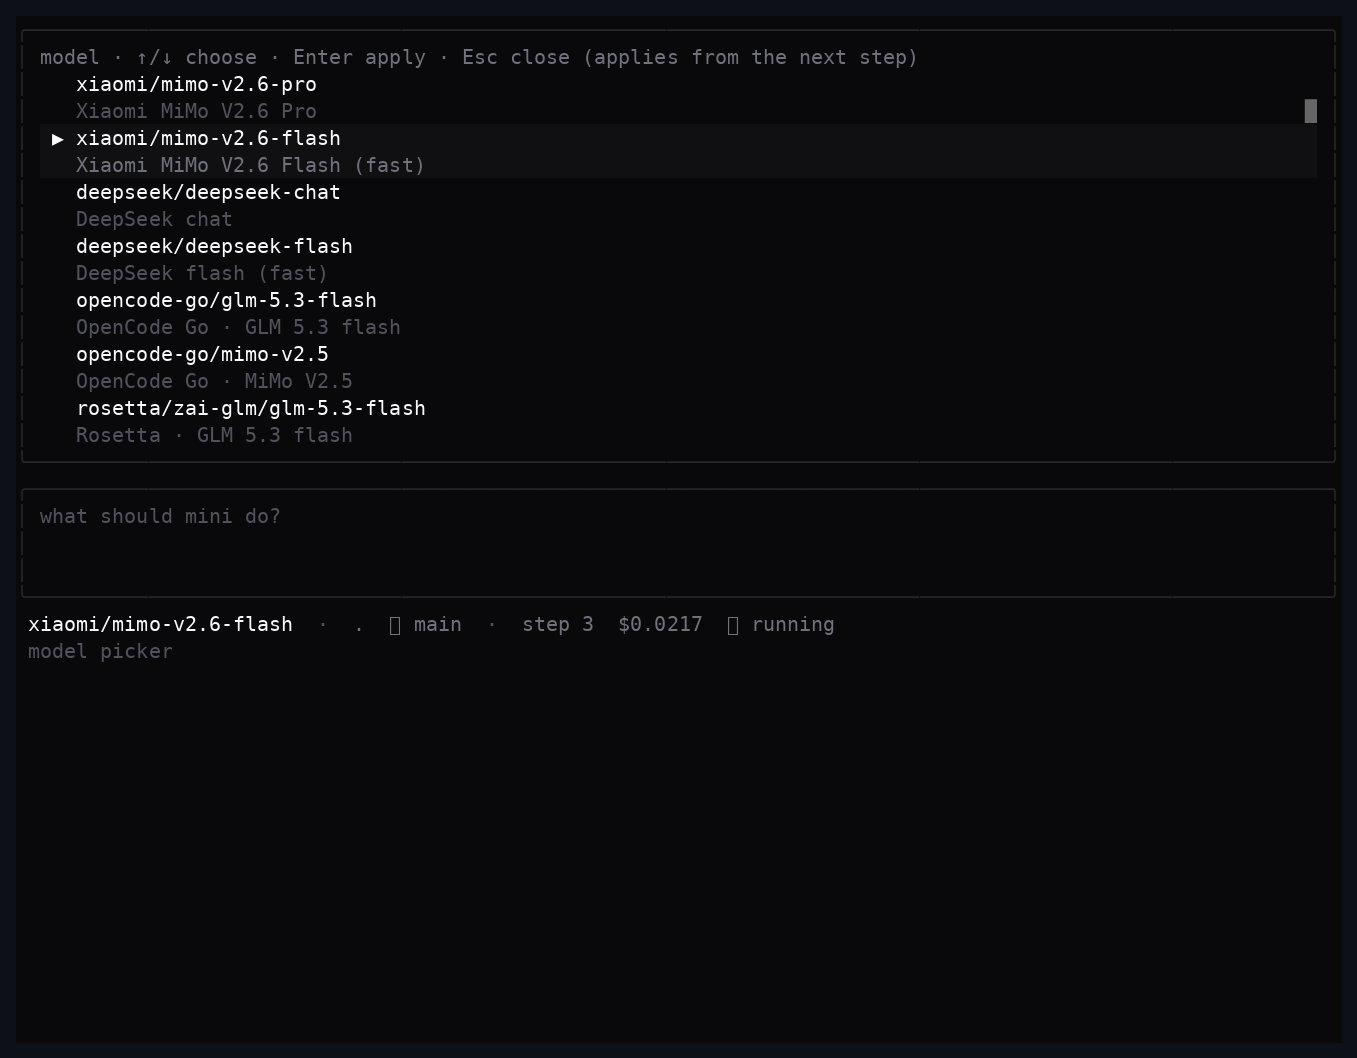
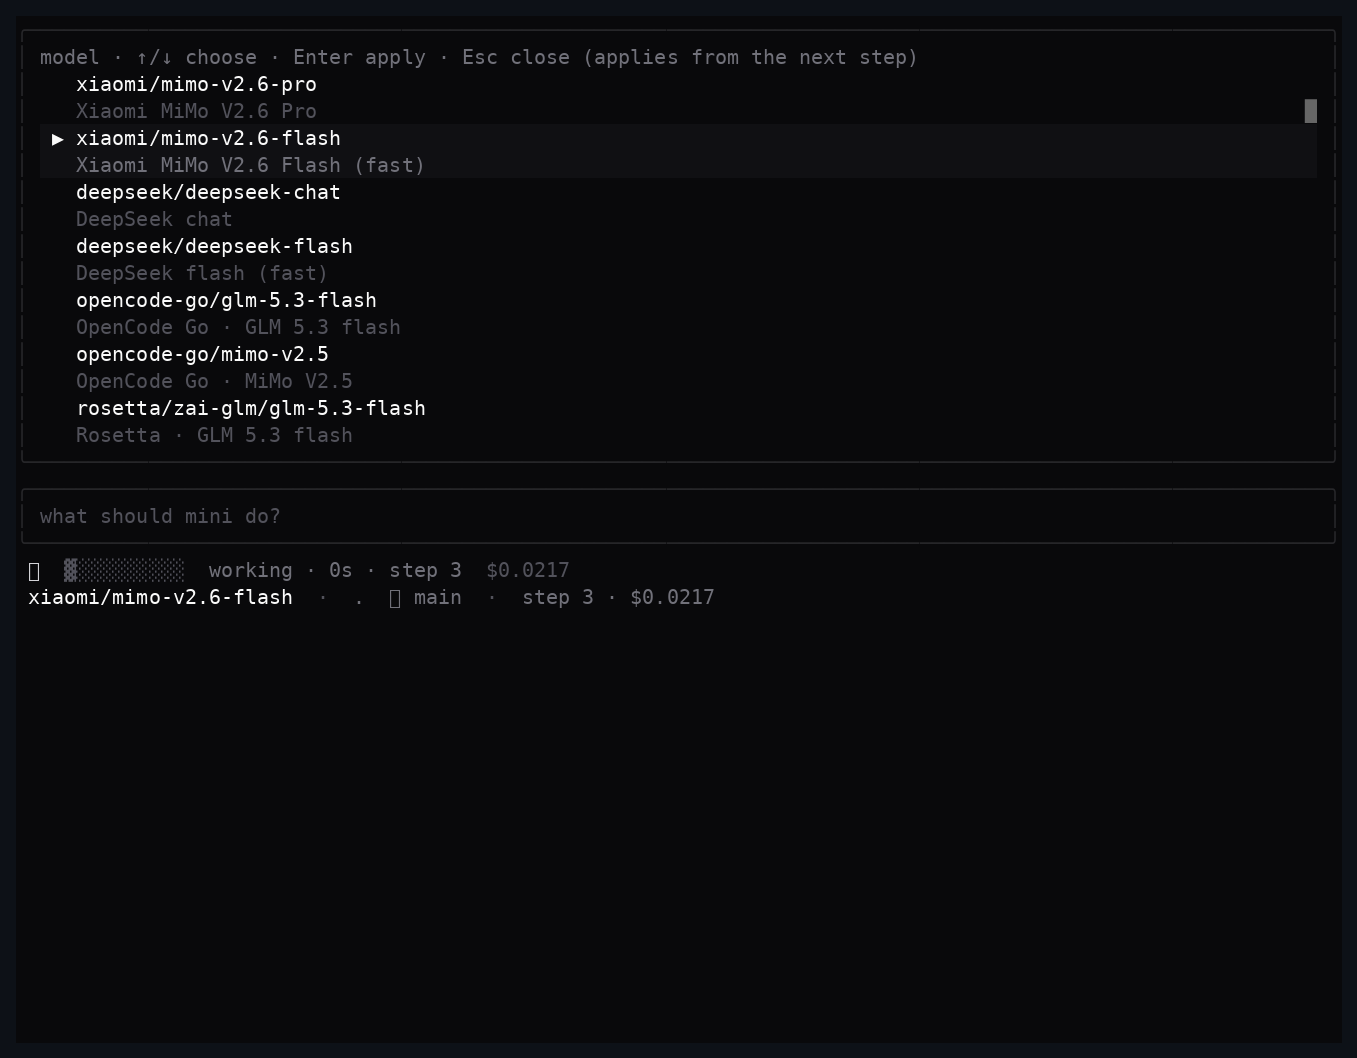
feat: compact bottom stack with an animated load state under the prompt
- new loader row right below the prompt while the agent works: animated
  braille spinner + shimmer bar + elapsed/step/cost
- prompt box now grows with the text (1-3 rows): the empty gap between the
  prompt and the meta line is gone
- meta line trimmed to model · path · git branch · stats · status; the hint
  row only appears for transient feedback
- layout regression test (loader adjacency, 3-row prompt box)

diff --git a/src/ui/App.tsx b/src/ui/App.tsx
@@ -4,6 +4,7 @@ import type { ScrollBoxRenderable, TextareaRenderable } from "@opentui/core";
 
 import { colors, markdownSyntaxStyle } from "./theme";
 import { MetaRow } from "./components/MetaRow";
+import { LoaderRow } from "./components/LoaderRow";
 import { TaskCard } from "./components/TaskCard";
 import { StepCard } from "./components/StepCard";
 import { NoticeLine } from "./components/NoticeLine";
@@ -22,7 +23,6 @@ import { gitBranch, shortPath } from "../git";
 import { loadSettings, saveSettings, type Settings } from "../settings";
 import type { RunEvent, RunInfo, Trajectory } from "../traj/schema";
 
-const SPINNER = ["⠋", "⠙", "⠹", "⠸", "⠼", "⠴", "⠦", "⠧", "⠇", "⠏"];
 const COMMAND_OPTIONS = buildOptions(MODELS);
 const ESC_DOUBLE_MS = 800;
 
@@ -122,6 +122,7 @@ export function App(props: AppProps) {
   const paletteIdxRef = useRef(0);
   const lastEscAt = useRef(0);
   const followRef = useRef(true);
+  const startedAtRef = useRef(0);
   const textareaRef = useRef<TextareaRenderable | null>(null);
   const branch = useMemo(() => gitBranch(props.cwd), [props.cwd]);
 
@@ -151,6 +152,7 @@ export function App(props: AppProps) {
 
   const paletteOptions = promptText.startsWith("/") && !paletteDismissed ? matchOptions(promptText, COMMAND_OPTIONS) : [];
   const paletteOpen = paletteOptions.length > 0 && inputFocused && overlayState === "none";
+  const promptRows = Math.max(1, promptText.split("\n").length);
 
   const applyPromptText = (text: string) => {
     textareaRef.current?.setText(text);
@@ -195,6 +197,7 @@ export function App(props: AppProps) {
   const startRun = (spec: TaskSpec) => {
     setStatus("running");
     exitedRef.current = false;
+    startedAtRef.current = Date.now();
     setHintText(undefined);
     const run = spawnMini({ ...spec, model: spec.model || modelOverride });
     live.current = { run };
@@ -270,7 +273,7 @@ export function App(props: AppProps) {
 
   useEffect(() => {
     if (status !== "running") return;
-    const timer = setInterval(() => setTick((t) => (t + 1) % SPINNER.length), 120);
+    const timer = setInterval(() => setTick((t) => (t + 1) % 1000), 120);
     return () => clearInterval(timer);
   }, [status]);
 
@@ -408,6 +411,7 @@ export function App(props: AppProps) {
   const exitEvent = events.find((event) => event.type === "exit") as Extract<RunEvent, { type: "exit" }> | undefined;
   const displayStatus = props.statusOverride ?? (exitEvent ? "done" : status);
   const busy = Boolean(live.current.run) && !exitedRef.current;
+  const elapsedS = startedAtRef.current ? Math.floor((Date.now() - startedAtRef.current) / 1000) : 0;
   const toggle = (key: number) =>
     setExpanded((prev) => {
       const next = new Set(prev);
@@ -416,19 +420,8 @@ export function App(props: AppProps) {
       return next;
     });
 
-  const hint =
-    hintText ??
-    (overlayState === "model"
-      ? "model picker"
-      : overlayState === "settings"
-        ? "settings"
-        : overlayState === "help"
-          ? "help"
-          : inputFocused
-            ? busy
-              ? "typing · Enter continues the conversation"
-              : "typing · Enter launches"
-            : "normal · i type · q quit");
+  // Compact bottom stack: prompt (grows with the text) · loader (while running) · meta · hint.
+  const bottomRows = 2 + promptRows + (displayStatus === "running" ? 1 : 0) + 1 + (hintText ? 1 : 0);
 
   return (
     <box flexDirection="column" width="100%" height="100%" backgroundColor={colors.bg}>
@@ -447,7 +440,7 @@ export function App(props: AppProps) {
           ref={scrollRef}
           stickyStart="bottom"
           width="100%"
-          height={Math.max(6, dims.height - 10 - paletteOptions.length)}
+          height={Math.max(6, dims.height - bottomRows - paletteOptions.length)}
           contentOptions={{ gap: 1 }}
         >
           {items.map((item) => {
@@ -518,6 +511,7 @@ export function App(props: AppProps) {
       <PromptBar
         focused={inputFocused && overlayState === "none" && !paletteOpen}
         busy={busy}
+        rows={promptRows}
         textareaRef={textareaRef}
         onSend={send}
         onTextChange={(text) => {
@@ -529,6 +523,9 @@ export function App(props: AppProps) {
           }
         }}
       />
+      {displayStatus === "running" ? (
+        <LoaderRow tick={tick} elapsedS={elapsedS} step={step} cost={info.cost} />
+      ) : null}
       <MetaRow
         model={(modelOverride ?? info.model ?? props.runSpec?.model ?? DEFAULT_MODEL) || "default model"}
         path={shortPath(props.cwd)}
@@ -536,9 +533,8 @@ export function App(props: AppProps) {
         step={step}
         cost={info.cost}
         status={displayStatus}
-        spinner={SPINNER[tick % SPINNER.length]}
       />
-      <StatusBar hint={hint} />
+      <StatusBar hint={hintText} />
     </box>
   );
 }

diff --git a/tests/render.test.tsx b/tests/render.test.tsx
@@ -386,3 +386,40 @@ describe("markdown and palette extras", () => {
     setup.renderer.destroy();
   });
 });
+
+describe("bottom stack", () => {
+  test("loader row sits right under the prompt while running (and hides when done)", async () => {
+    const running = await testRender(
+      <App
+        cwd="/home/jaime/mini-tui"
+        events={[]}
+        info={{ cost: 0.0217, apiCalls: 3, model: "xiaomi/mimo-v2.6-pro" }}
+        statusOverride="running"
+        onQuit={() => {}}
+      />,
+      { width: 90, height: 18 },
+    );
+    await running.renderOnce();
+    const runFrame = running.captureCharFrame();
+    expect(runFrame).toContain("working ·");
+    expect(runFrame).toContain("$0.0217");
+    // compact stack: the meta line comes right after the loader row
+    const lines = runFrame.split("\n").map((l) => l.trimEnd());
+    const loaderIdx = lines.findIndex((l) => l.includes("working ·"));
+    expect(lines[loaderIdx + 1]).toContain("xiaomi/mimo-v2.6-pro");
+    expect(lines[loaderIdx + 1]).toContain("⎇ main");
+    // the prompt box no longer has empty rows: 3 rows (border, text, border)
+    const boxTop = lines.findIndex((l) => l.startsWith("╭") && lines[lines.indexOf(l) + 1]?.includes("what should mini do"));
+    const boxBottom = lines.findIndex((l) => l.startsWith("╰") && lines.indexOf(l) > boxTop);
+    expect(boxBottom - boxTop).toBe(2);
+    running.renderer.destroy();
+
+    const done = await testRender(
+      <App cwd="." events={[]} info={{ cost: 0, apiCalls: 0 }} statusOverride="done" onQuit={() => {}} />,
+      { width: 90, height: 18 },
+    );
+    await done.renderOnce();
+    expect(done.captureCharFrame()).not.toContain("working ·");
+    done.renderer.destroy();
+  });
+});

diff --git a/src/ui/components/MetaRow.tsx b/src/ui/components/MetaRow.tsx
@@ -1,8 +1,8 @@
 import { colors } from "../theme";
 
 /**
- * Quiet meta row shown below the prompt: selected model · cwd (git branch when
- * applicable) · step · cost · status.
+ * Quiet meta row under the prompt: selected model · cwd (git branch when applicable)
+ * · run stats · status.
  */
 export function MetaRow(props: {
   model: string;
@@ -11,10 +11,8 @@ export function MetaRow(props: {
   step: number;
   cost: number;
   status: string;
-  spinner: string;
 }) {
   const statusColor = props.status === "error" ? colors.err : props.status === "done" ? colors.ok : colors.dim;
-  const statusText = props.status === "running" ? `${props.spinner} running` : `● ${props.status}`;
   return (
     <box flexDirection="row" gap={2} paddingX={1}>
       <text fg={colors.text}>{props.model}</text>
@@ -22,9 +20,10 @@ export function MetaRow(props: {
       <text fg={colors.dim}>{props.path}</text>
       {props.branch ? <text fg={colors.dim}>⎇ {props.branch}</text> : null}
       <text fg={colors.faint}>·</text>
-      <text fg={colors.dim}>step {props.step}</text>
-      <text fg={colors.dim}>${props.cost.toFixed(4)}</text>
-      <text fg={statusColor}>{statusText}</text>
+      <text fg={colors.dim}>
+        step {props.step} · ${props.cost.toFixed(4)}
+      </text>
+      {props.status !== "running" ? <text fg={statusColor}>● {props.status}</text> : null}
     </box>
   );
 }

diff --git a/src/ui/components/LoaderRow.tsx b/src/ui/components/LoaderRow.tsx
@@ -1,0 +1,21 @@
+import { colors } from "../theme";
+
+const FRAMES = ["⣾", "⣽", "⣻", "⢿", "⡿", "⣟", "⣯", "⣷"];
+const BAR_CELLS = 10;
+
+/** Shimmering load state shown right below the prompt while the agent works. */
+export function LoaderRow(props: { tick: number; elapsedS: number; step: number; cost: number }) {
+  const spinner = FRAMES[props.tick % FRAMES.length];
+  const head = props.tick % BAR_CELLS;
+  const bar = Array.from({ length: BAR_CELLS }, (_, i) => (i === head ? "▓" : "░")).join("");
+  return (
+    <box flexDirection="row" gap={2} paddingX={1}>
+      <text fg={colors.accent}>{spinner}</text>
+      <text fg={colors.faint}>{bar}</text>
+      <text fg={colors.dim}>
+        working · {props.elapsedS}s · step {props.step}
+      </text>
+      <text fg={colors.faint}>${props.cost.toFixed(4)}</text>
+    </box>
+  );
+}

diff --git a/src/ui/components/PromptBar.tsx b/src/ui/components/PromptBar.tsx
@@ -17,6 +17,7 @@ const PROMPT_KEY_BINDINGS = [
 export function PromptBar(props: {
   focused: boolean;
   busy: boolean;
+  rows: number;
   textareaRef: RefObject<TextareaRenderable | null>;
   onSend: (text: string) => void;
   onTextChange: (text: string) => void;
@@ -31,7 +32,7 @@ export function PromptBar(props: {
       <textarea
         ref={props.textareaRef}
         focused={props.focused}
-        height={3}
+        height={Math.max(1, Math.min(3, props.rows))}
         keyBindings={PROMPT_KEY_BINDINGS as never}
         placeholder={hint}
         textColor={colors.text}

diff --git a/README.md b/README.md
@@ -11,9 +11,10 @@ outputs — into cards, badges and banners. The harness runs completely untouche
 
 ## Features
 
-- **Prompt bar, Claude-Code style.** A multi-line prompt input pinned to the bottom of the screen:
-  type your task (`Alt+Enter` / `Ctrl+J` for a new line), hit Enter, and keep typing follow-ups
-  while the agent works (or after it submits) — they continue the *same* conversation.
+- **Prompt bar, Claude-Code style.** A compact multi-line prompt pinned to the bottom of the
+  screen (it grows with your text): type your task (`Alt+Enter` / `Ctrl+J` for a new line), hit
+  Enter, and keep typing follow-ups while the agent works (or after it submits) — they continue
+  the *same* conversation.
 
   ![prompt bar](docs/screenshots/prompt.png)
 
@@ -27,8 +28,9 @@ outputs — into cards, badges and banners. The harness runs completely untouche
   template wrapping — the **final answer is rendered as proper markdown** (bold, code, links), and
   the redundant `exit Submitted` echo of it is never shown.
 - **One quiet card per bash step** (command + its output), shadcn-style: zinc neutrals, rounded
-  surfaces, a single subtle accent and semantic colors used sparingly. The meta row below the
-  prompt shows the selected model, the working path and the checked-out git branch.
+  surfaces, a single subtle accent and semantic colors used sparingly. Right under the prompt
+  sits an animated load state while the agent works (`⣾ ▓░░░░ working · 34s · step 2 · $0.0217`),
+  followed by the selected model, the working path and the checked-out git branch.
 - **Output display modes** — collapsed (just a `1 tool call` line), trimmed to 2 lines, or fully
   expanded. Pick one in the **settings panel** (`/settings`); it persists across runs. `e` still
   expands or collapses any block individually.
